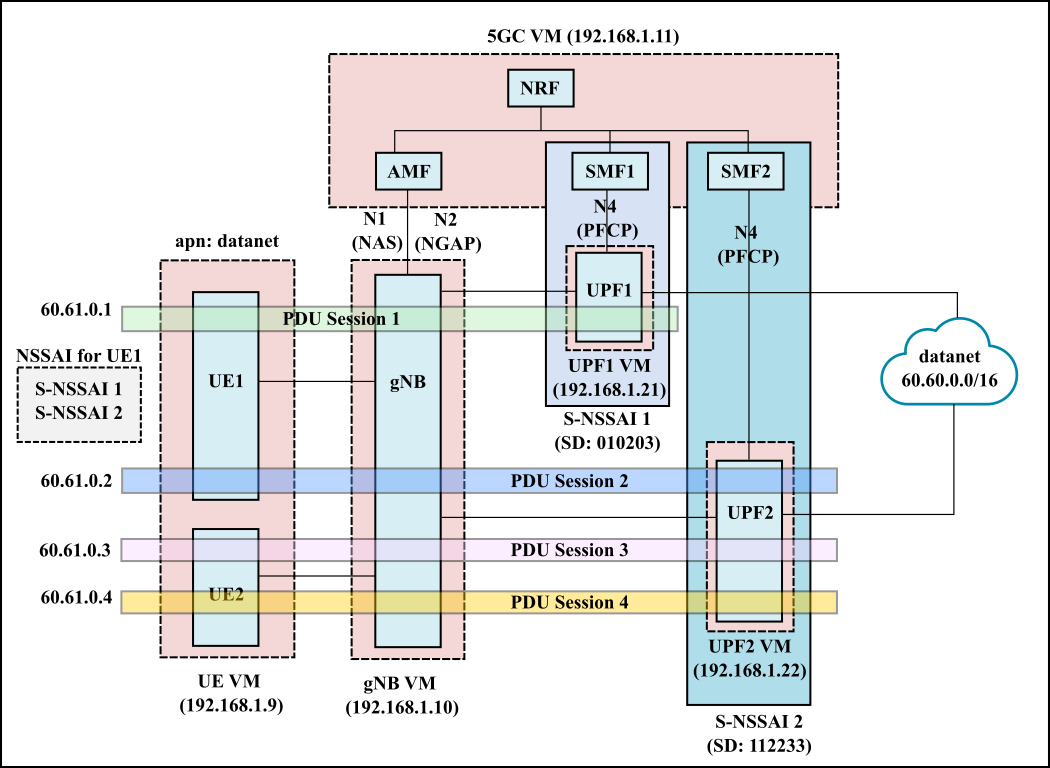
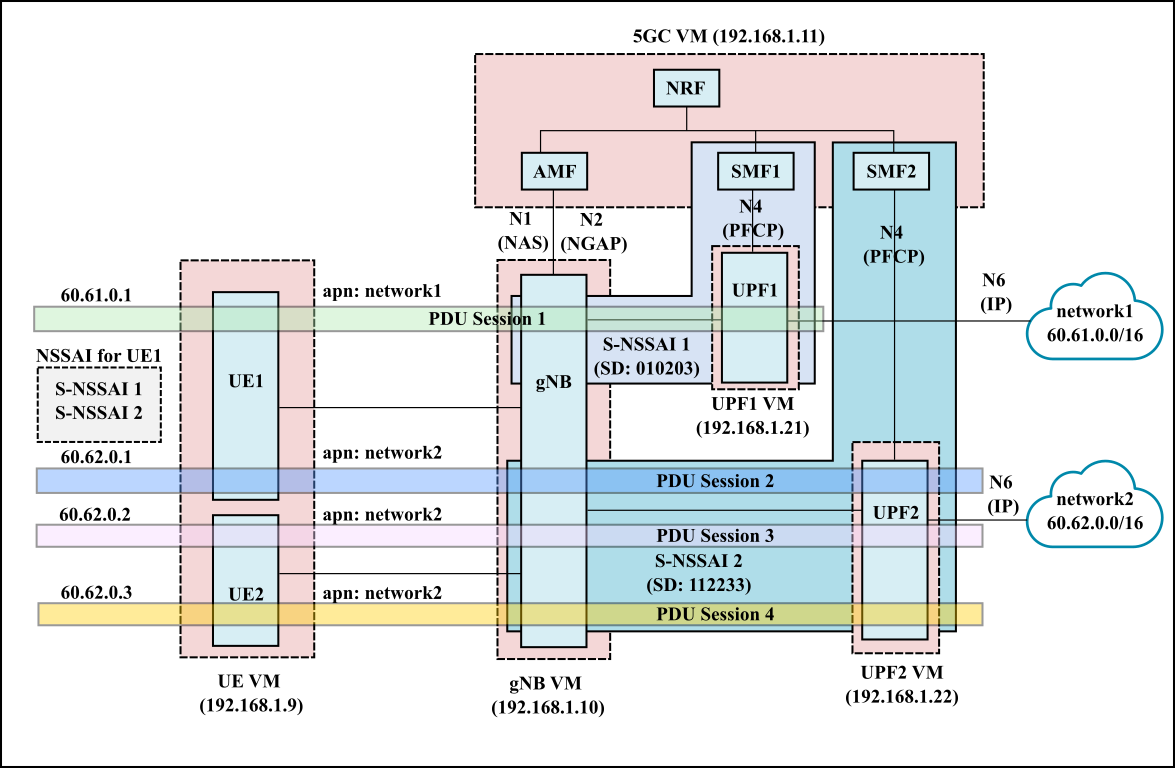
add scenario with 2 gnb and updates to images.

diff --git a/README.md b/README.md
@@ -41,3 +41,13 @@ The configuration files and scripts are in the [slicing_01](slicing_01) director
 ![slicing 02](images/slice_deployment_02.png)
 
 The configuration files and scripts are in the [slicing_02](slicing_02) directory.
+
+## Network Slicing 03 (TODO)
+
+- This is an extension of the [network slicing 02](#network-slicing-02-todo) scenario shown above.
+- Here, we have two gNodeBs, gNB1 and gNB2. gNB1 supports both slices (i.e., S-NSSAI1 and S-NSSAI2), while gNB2 only supports a single slice (S-NSSAI1).
+- UPF2 connects to both DNNs, i.e., network1 and network2.
+
+
+
+![slicing 03](images/slice_deployment_03.png)
